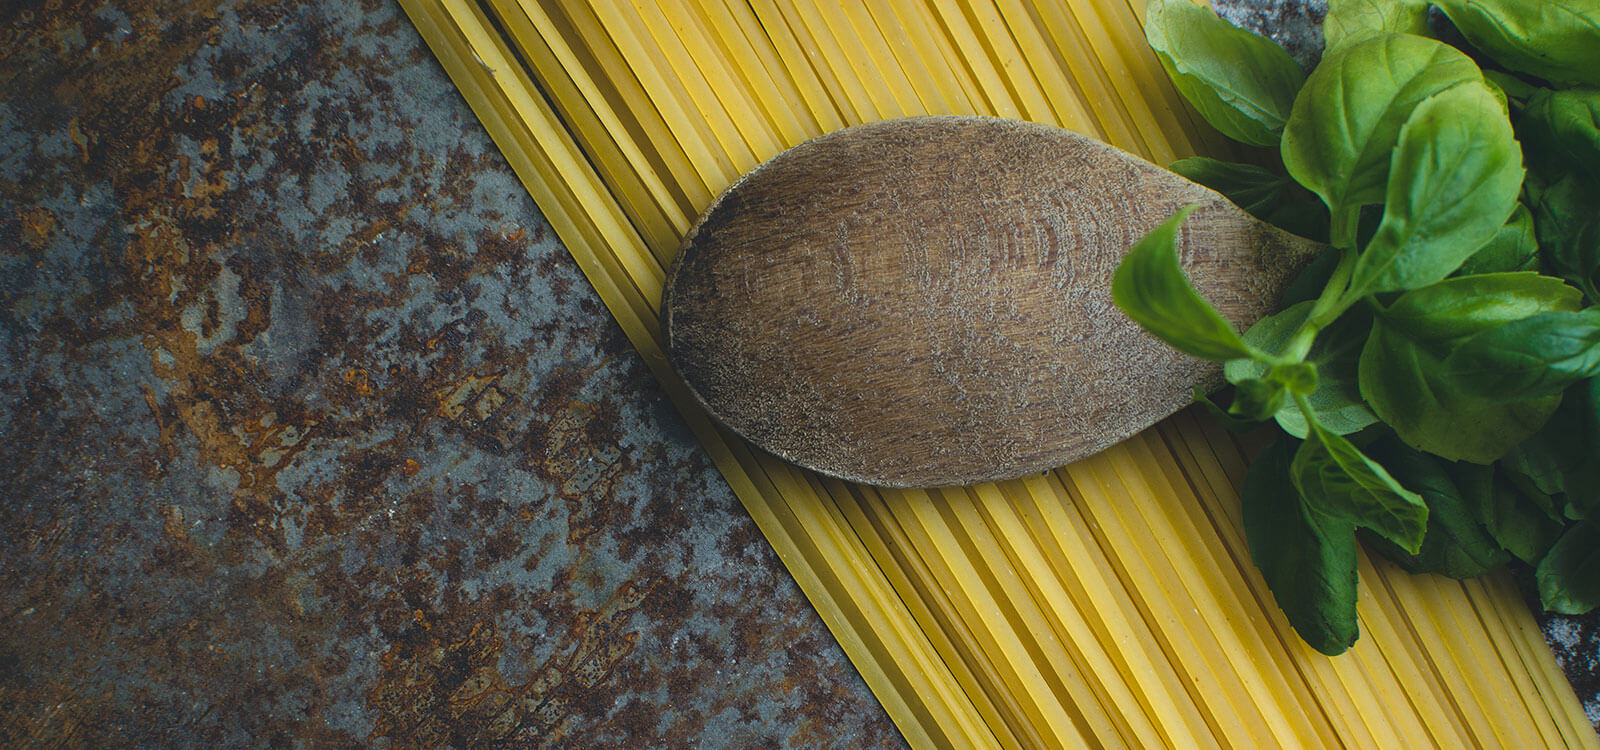
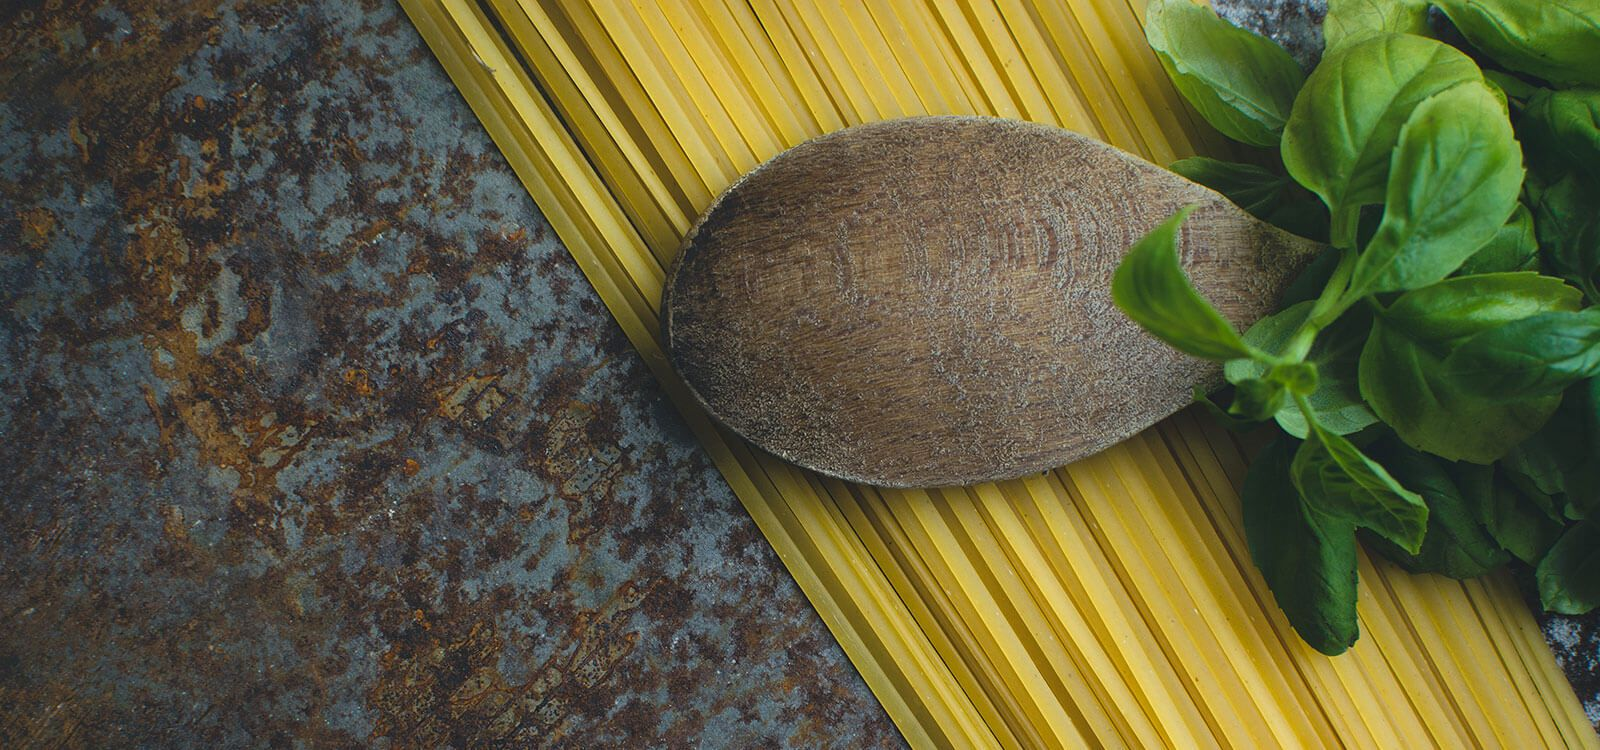
optimized images

diff --git a/css/_menu.scss b/css/_menu.scss
@@ -25,7 +25,7 @@
 .menu-card {
     &__title {
         position: relative;
-        margin-bottom: 70px;
+        margin-bottom: 60px;
         color: $color-title-accent;
         font-family: $font-title;
         font-size: 36px;
@@ -68,7 +68,7 @@
 
 .menu-card-item {
     position: relative;
-    margin-bottom: 30px;
+    margin-bottom: 10px;
     padding: 10px;
     &__name {
         position: relative;

diff --git a/index.html b/index.html
@@ -87,7 +87,7 @@
                     </div><!--food__main-->
 
                     <div class="food__side">
-                        <img src="img/plate.png" alt="plate of food" class="food__photo">
+                        <img src="img/plate-min.png" alt="plate of food" class="food__photo">
                     </div>
 
                 </div><!--food__inner-->

diff --git a/css/style.css b/css/style.css
@@ -617,7 +617,7 @@ img {
 
 .menu-card__title {
   position: relative;
-  margin-bottom: 70px;
+  margin-bottom: 60px;
   color: #cc9900;
   font-family: "Yeseva One", cursive;
   font-size: 36px;
@@ -664,7 +664,7 @@ img {
 
 .menu-card-item {
   position: relative;
-  margin-bottom: 30px;
+  margin-bottom: 10px;
   padding: 10px;
 }
 
